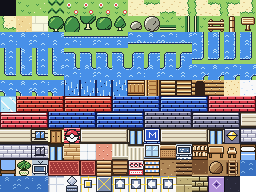
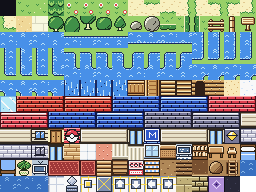
Art: tileset generator, palettes, pixel fonts, preview renderer
Claude-Session: https://claude.ai/code/session_01VDPeRWH8H6AS12nRDWR9iP

Changed region(s): [[0.7188, 0.0625, 0.8125, 0.1875], [0.1875, 0.0, 0.25, 0.0938], [0.625, 0.125, 0.6875, 0.1562]]

diff --git a/art/tiles.py b/art/tiles.py
@@ -57,15 +57,23 @@ def make_grass_alt():
     return a
 
 
-TALL_Q = grid("""
-21111112
-22111122
-23211232
-12322321
-11233211
-11122111
-11111111
-11111111
+TALL_GRASS = grid("""
+2222222222222222
+2122212222122212
+2121212222121212
+2111112212111112
+3211123222211123
+2321232222321232
+2233322222233322
+2222222222222222
+2222221222222212
+2122212122122212
+2121211122121211
+2111112211111112
+3211123232111232
+2321232223212322
+2233322222333222
+2222222222222222
 """)
 
 TREE = grid("""
@@ -172,31 +180,37 @@ LEDGE_S = grid("""
 1111112121111111
 1111111111111111
 1111111111111111
-1111111111111111
-2222222222222222
-2222222222222222
-3333333333333333
 0000000000000000
-3333333333333333
+2222222222222222
+2212222222122222
+2222222222222222
+3222222332222223
+1333333113333331
 1111111111111111
 1111111111111111
 """)
 
 
 def make_ledge_e():
-    a = make_grass()
-    a[:, 9:11] = 2
-    a[:, 11] = 3
-    a[:, 12] = 0
-    a[:, 13] = 3
-    a[:, 14:] = 1
+    """east-facing ledge: the drop is on the right side of the tile"""
+    a = rot_ledge(LEDGE_S, 1)
     return a
 
 
 def make_ledge_w():
-    a = make_ledge_e()
-    a = a[:, ::-1].copy()
-    # re-draw the lip so the highlight side faces up-left consistently
+    return rot_ledge(LEDGE_S, -1)
+
+
+def rot_ledge(src, k):
+    # rotate the lip only; keep the grass tufts upright by re-drawing grass
+    lip = np.rot90(src, k).copy()
+    a = make_grass()
+    m = np.zeros((TS, TS), bool)
+    if k == 1:   # counter-clockwise: bottom rows -> right columns
+        m[:, 8:] = True
+    else:
+        m[:, :8] = True
+    a[m] = lip[m]
     return a
 
 
@@ -1388,9 +1402,7 @@ def build_tiles():
     # ---- outdoor ground
     add("grass", "outdoor", make_grass())
     add("grass_alt", "outdoor", make_grass_alt())
-    tg = np.vstack([np.hstack([TALL_Q, TALL_Q]),
-                    np.roll(np.hstack([TALL_Q, TALL_Q]), 4, axis=1)])
-    add("tall_grass", "outdoor", tg)
+    add("tall_grass", "outdoor", TALL_GRASS)
     add("flowers", "flowers", flowers_frames())
     add("path", "path", path_base())
     for s in "nsew":

diff --git a/art/previews.py b/art/previews.py
@@ -265,6 +265,8 @@ def chars_contact():
     if not os.path.isdir(folder):
         return None
     ids = sorted(f[:-4] for f in os.listdir(folder) if f.endswith(".png"))
+    if not ids:
+        return None
     cols, cw, ch = 4, 128, 70
     rows = (len(ids) + cols - 1) // cols
     img = Image.new("RGBA", (cols * cw, rows * ch), BG)
@@ -284,6 +286,8 @@ def trainers_contact():
     if not os.path.isdir(folder):
         return None
     ids = sorted(f[:-4] for f in os.listdir(folder) if f.endswith(".png"))
+    if not ids:
+        return None
     cols, cw, ch = 10, 68, 76
     rows = (len(ids) + cols - 1) // cols
     img = Image.new("RGBA", (cols * cw, rows * ch), (248, 248, 248, 255))
